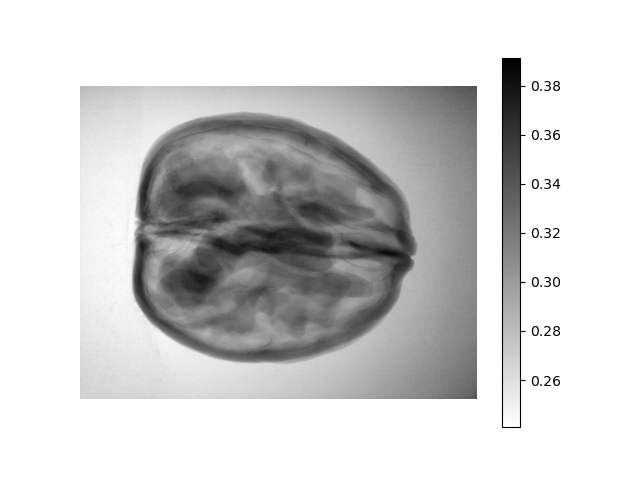
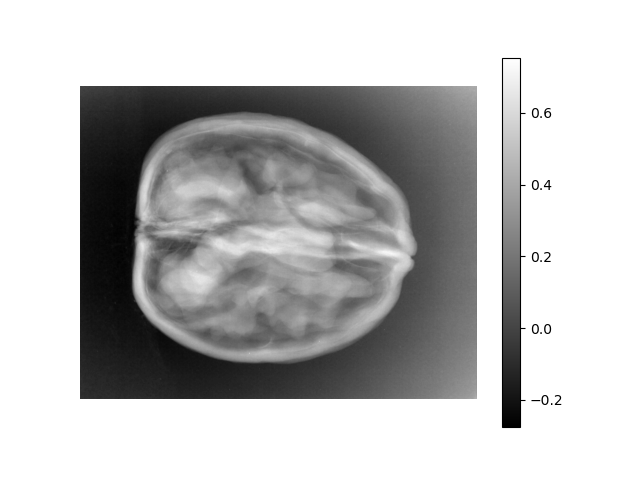
fix transformation bug

diff --git a/homework/hw01/transform.py b/homework/hw01/transform.py
@@ -31,7 +31,7 @@ def transmission_to_absorption(x, IO) -> np.ndarray:
     :return:
         absorption_image: np.ndarray of absorbed image
     """
-    absorption_image = -I0 * np.log(x)
+    absorption_image = -np.log(x / I0)
     return absorption_image
 
 def absorption_to_transmission(x, IO) -> np.ndarray:
@@ -61,7 +61,7 @@ if __name__ == "__main__":
         absorption_image = transmission_to_absorption(image, I0)
         # save forward, i.e., transmission to absorption
         plt.axis("off")
-        plt.imshow(absorption_image, cmap="binary")
+        plt.imshow(absorption_image, cmap="gray")
         plt.colorbar()
         save_path = os.path.join(output_absorption_dir, f"000{tag + 1}.png")
         plt.savefig(save_path, transparent=True)
@@ -69,7 +69,7 @@ if __name__ == "__main__":
         # save inverse, i.e., absorption to transmission
         plt.axis("off")
         transmission_image = absorption_to_transmission(absorption_image, I0)
-        plt.imshow(transmission_image, cmap="binary")
+        plt.imshow(transmission_image, cmap="gray")
         plt.colorbar()
         save_path = os.path.join(output_transmission_dir, f"000{tag + 1}.png")
         plt.savefig(save_path, transparent=True)

diff --git a/aomip/transform.py b/aomip/transform.py
@@ -31,7 +31,7 @@ def transmission_to_absorption(x, IO) -> np.ndarray:
     :return:
         absorption_image: np.ndarray of absorbed image
     """
-    absorption_image = -I0 * np.log(x)
+    absorption_image = -np.log(x / I0)
     return absorption_image
 
 def absorption_to_transmission(x, IO) -> np.ndarray:
